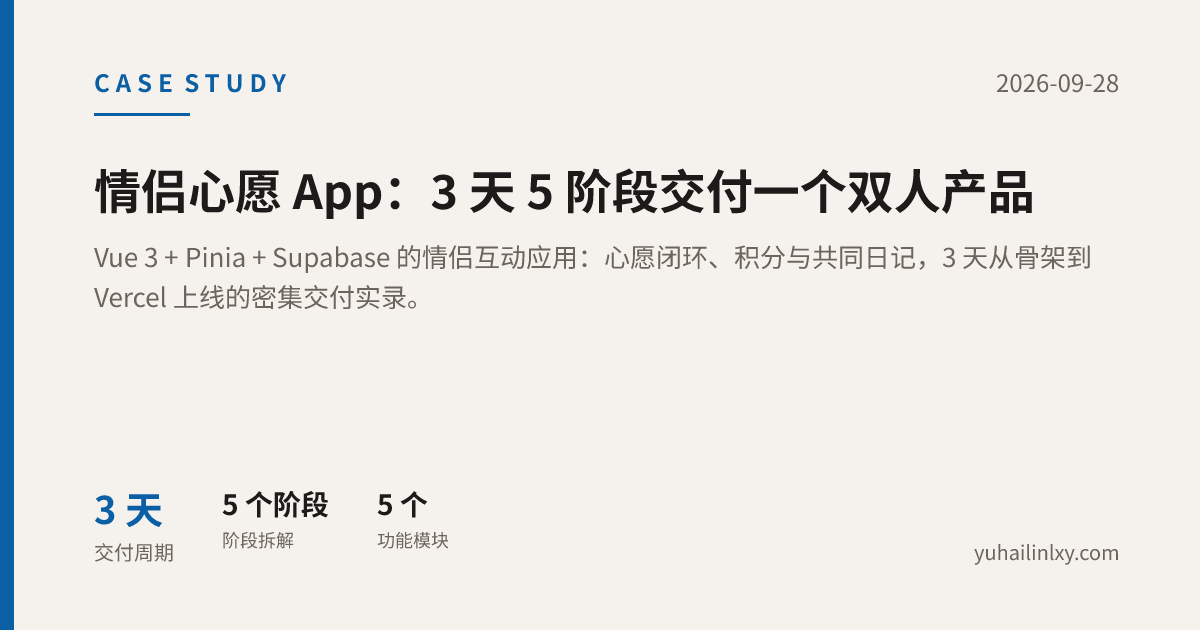
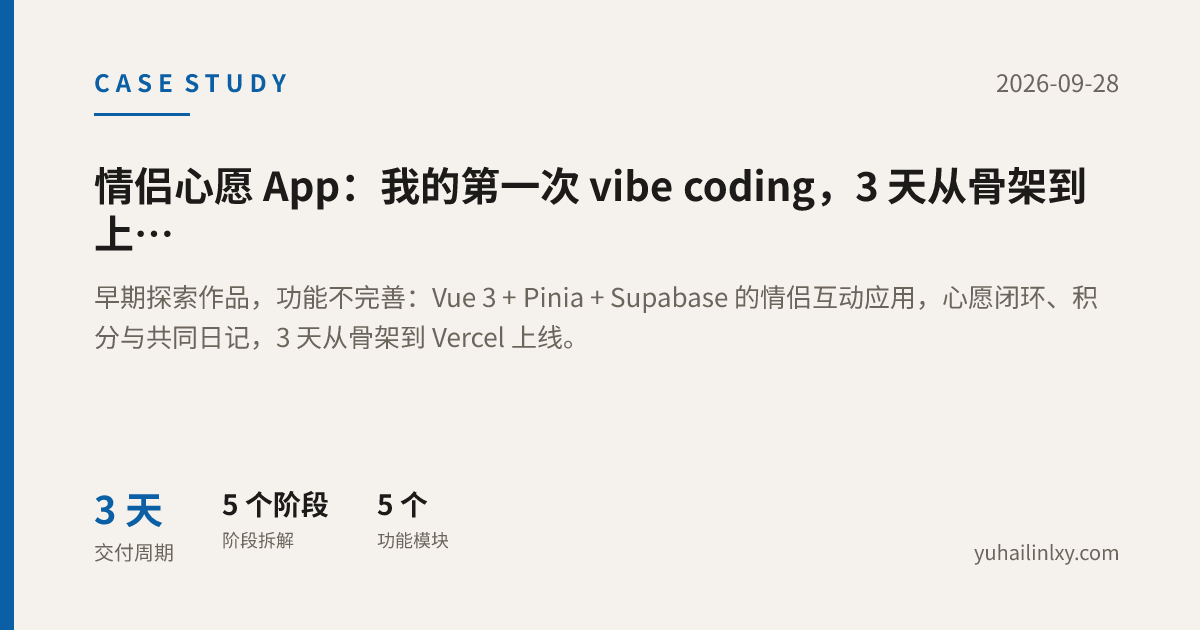
feat(content): 情侣心愿标为早期探索 —— 卡片徽标、速览行内标注、详情页顶部声明
用户指出这是第一次 vibe coding 的作品，功能不完善、只是初步想法。新增 caseStudies.maturity 字段（label + note），卡片在标题上方出琥珀色徽标、详情页在正文前出声明块，标题也从「3 天 5 阶段交付一个双人产品」改成「我的第一次 vibe coding」。

顺带重跑 npm run og（改过 frontmatter 的页面 OG 会陈旧，check-og 会拦）。

Changed region(s): [[0.0617, 0.2413, 0.925, 0.4222], [0.0617, 0.4524, 0.925, 0.573]]

diff --git a/site/src/content.config.ts b/site/src/content.config.ts
@@ -31,6 +31,14 @@ const caseStudies = defineCollection({
       .default([]),
     resultsNote: z.string().optional(),
     ogImage: z.string().optional(),
+    /** 成熟度标注（2026-10-28 加）：不是所有"项目"都是同一种完成度。
+        早期探索类的作品必须在卡片和详情页如实标出来，避免读者按"已上线产品"的预期去读。 */
+    maturity: z
+      .object({
+        label: z.string(),
+        note: z.string(),
+      })
+      .optional(),
   }),
 });
 

diff --git a/site/src/content/case-studies/couple-app.md b/site/src/content/case-studies/couple-app.md
@@ -1,12 +1,15 @@
 ---
-title: "情侣心愿 App：3 天 5 阶段交付一个双人产品"
-description: "Vue 3 + Pinia + Supabase 的情侣互动应用：心愿闭环、积分与共同日记，3 天从骨架到 Vercel 上线的密集交付实录。"
+title: "情侣心愿 App：我的第一次 vibe coding，3 天从骨架到上线"
+description: "早期探索作品，功能不完善：Vue 3 + Pinia + Supabase 的情侣互动应用，心愿闭环、积分与共同日记，3 天从骨架到 Vercel 上线。"
 pubDatetime: 2026-09-28T12:30:00+08:00
 modDatetime: 2026-09-28T12:30:00+08:00
 featured: true
 tags: ["产品设计", "Vue", "Supabase"]
 projectRole: "独立开发者：需求定义、五阶段拆解、全部前后端实现与部署"
 stack: ["Vue 3", "Pinia", "Vue Router", "Vite", "Supabase", "Vercel"]
+maturity:
+  label: "早期探索 · 功能不完善"
+  note: "这是我在 2026 年 7 月第一次尝试 vibe coding（用 AI 边聊边写代码）的作品。三天里从零搭到上线，但功能并不完善，也没有经过真实用户验证——它更像一个想法的验证，不是一个成品。放在这里，是因为它记录了我从「想」到「做出来」的第一步；读的时候请按「实验」的标准看，不要按「上线产品」的标准看。"
 metrics:
   - label: "交付周期"
     value: "3 天"
